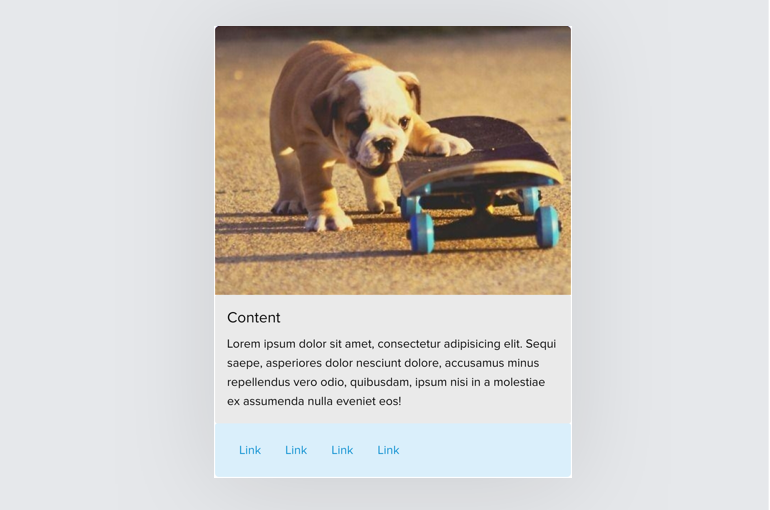
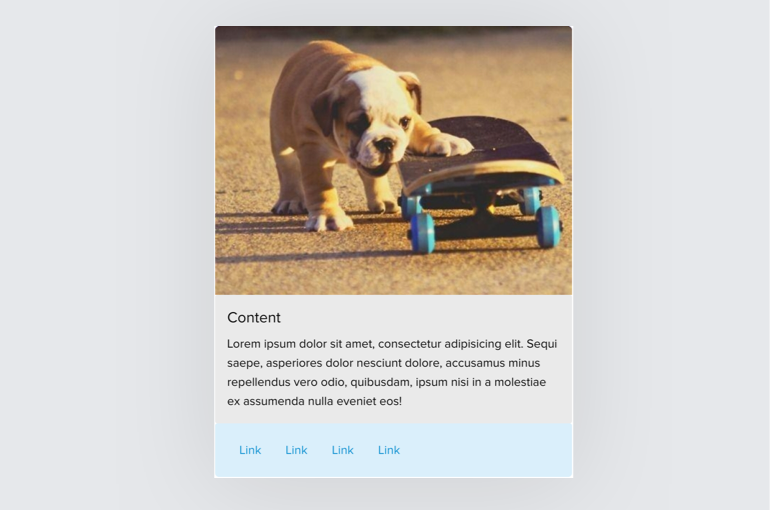
iterated on card background sizing

diff --git a/src/assets/scss/components/_cards-bb.scss b/src/assets/scss/components/_cards-bb.scss
@@ -79,7 +79,7 @@ $card-height: rem-calc(347);
   background: $blue-gray;
   background-position: center center;
   background-repeat: no-repeat;
-  background-size: 100% auto;
+  background-size: auto 100%;
   border-radius: rem-calc(5) rem-calc(5) 0 0;
   flex: 1 0 auto;
   position: relative;
